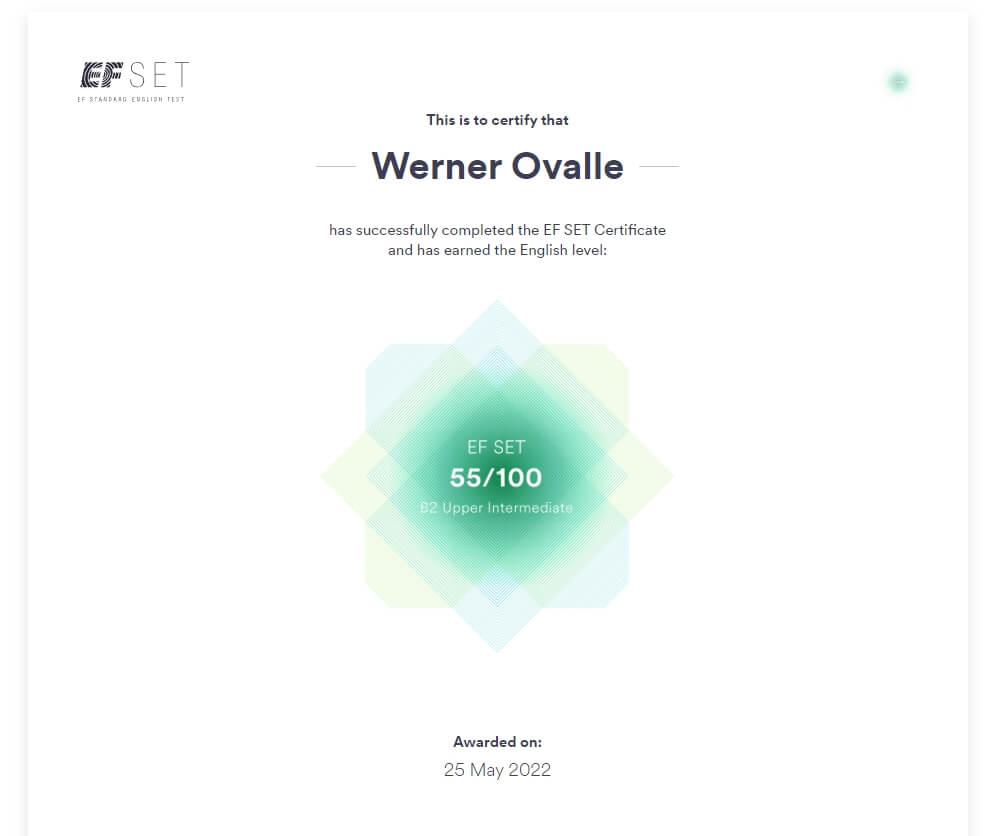
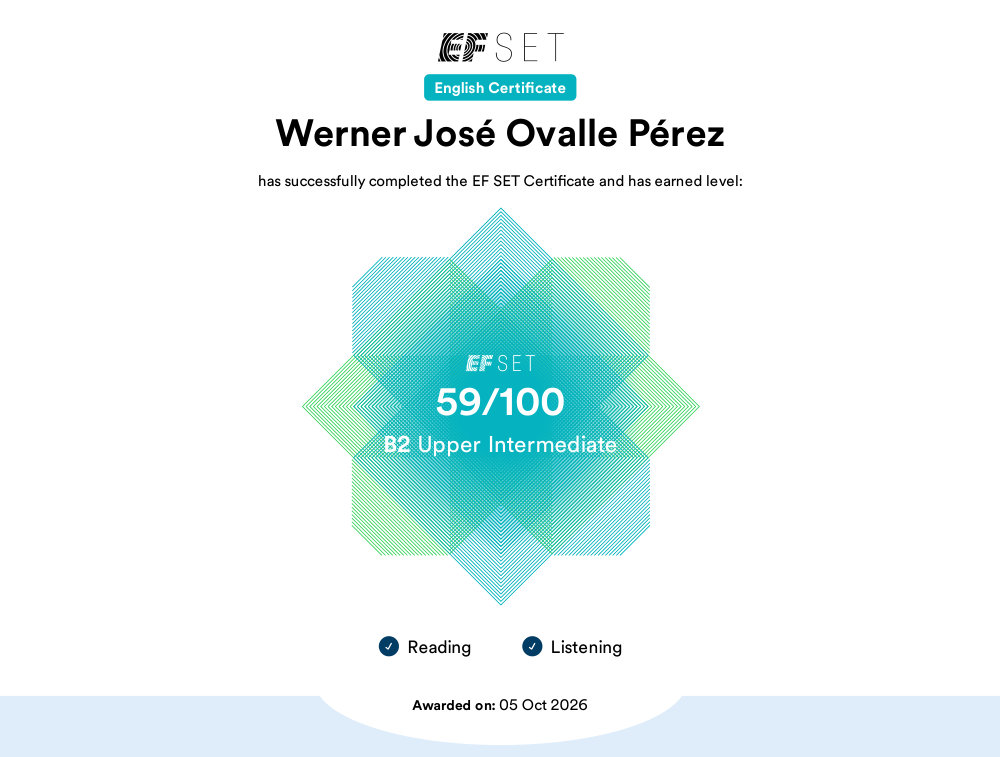
Update EF SET certificate to new 59/100 result
Claude-Session: https://claude.ai/code/session_01Dz7mJxE1ovwMAyqEV7rsgG

diff --git a/src/constants/constants.js b/src/constants/constants.js
@@ -240,9 +240,9 @@ export const certficates = [
     id: 15,
   },
   {
-    title: "EFSET English Certificate 55/100 (B2 Upper Intermediate)",
+    title: "EF SET English Certificate 59/100 (B2 Upper Intermediate)",
     image: "/images/efset-english-certificate.jpg",
-    visit: "https://www.efset.org/cert/gSKS8F",
+    visit: "https://cert.efset.org/en/gSKS8F",
     id: 16,
   },
   {
@@ -294,9 +294,9 @@ export const certificateCategories = [
         id: 1,
       },
       {
-        title: "EFSET English Certificate — B2 Upper Intermediate",
+        title: "EF SET English Certificate — 59/100 B2 Upper Intermediate",
         image: "/images/efset-english-certificate.jpg",
-        visit: "https://www.efset.org/cert/gSKS8F",
+        visit: "https://cert.efset.org/en/gSKS8F",
         id: 16,
       },
     ],
